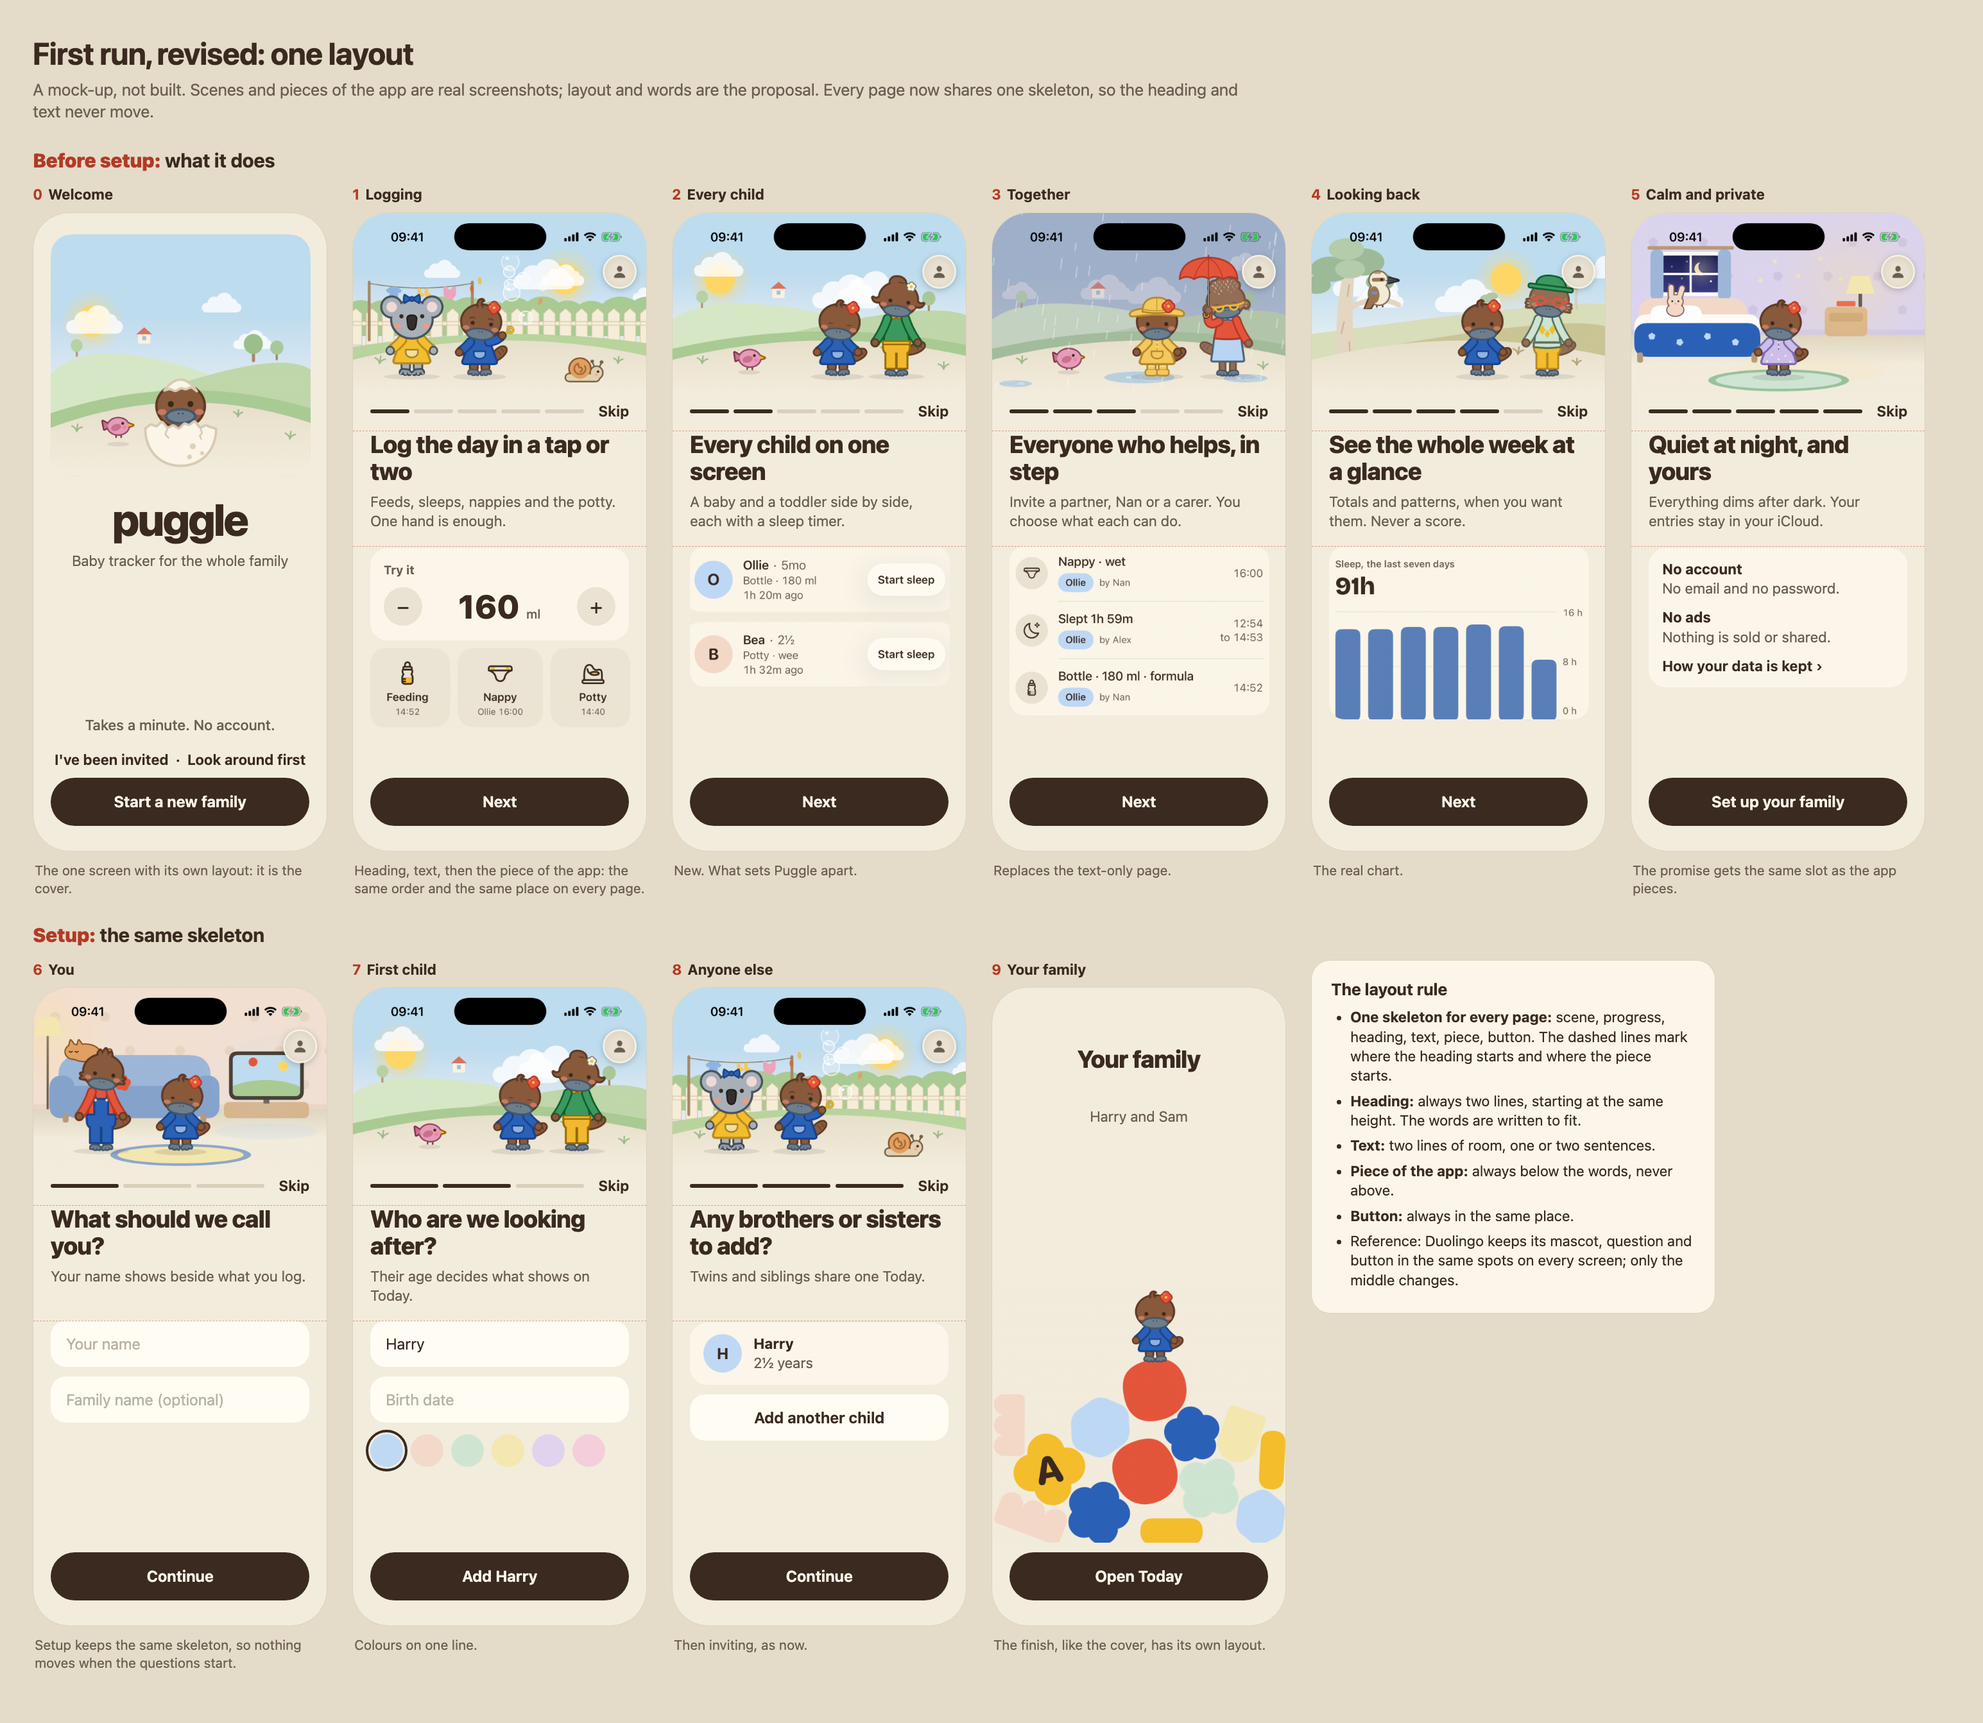
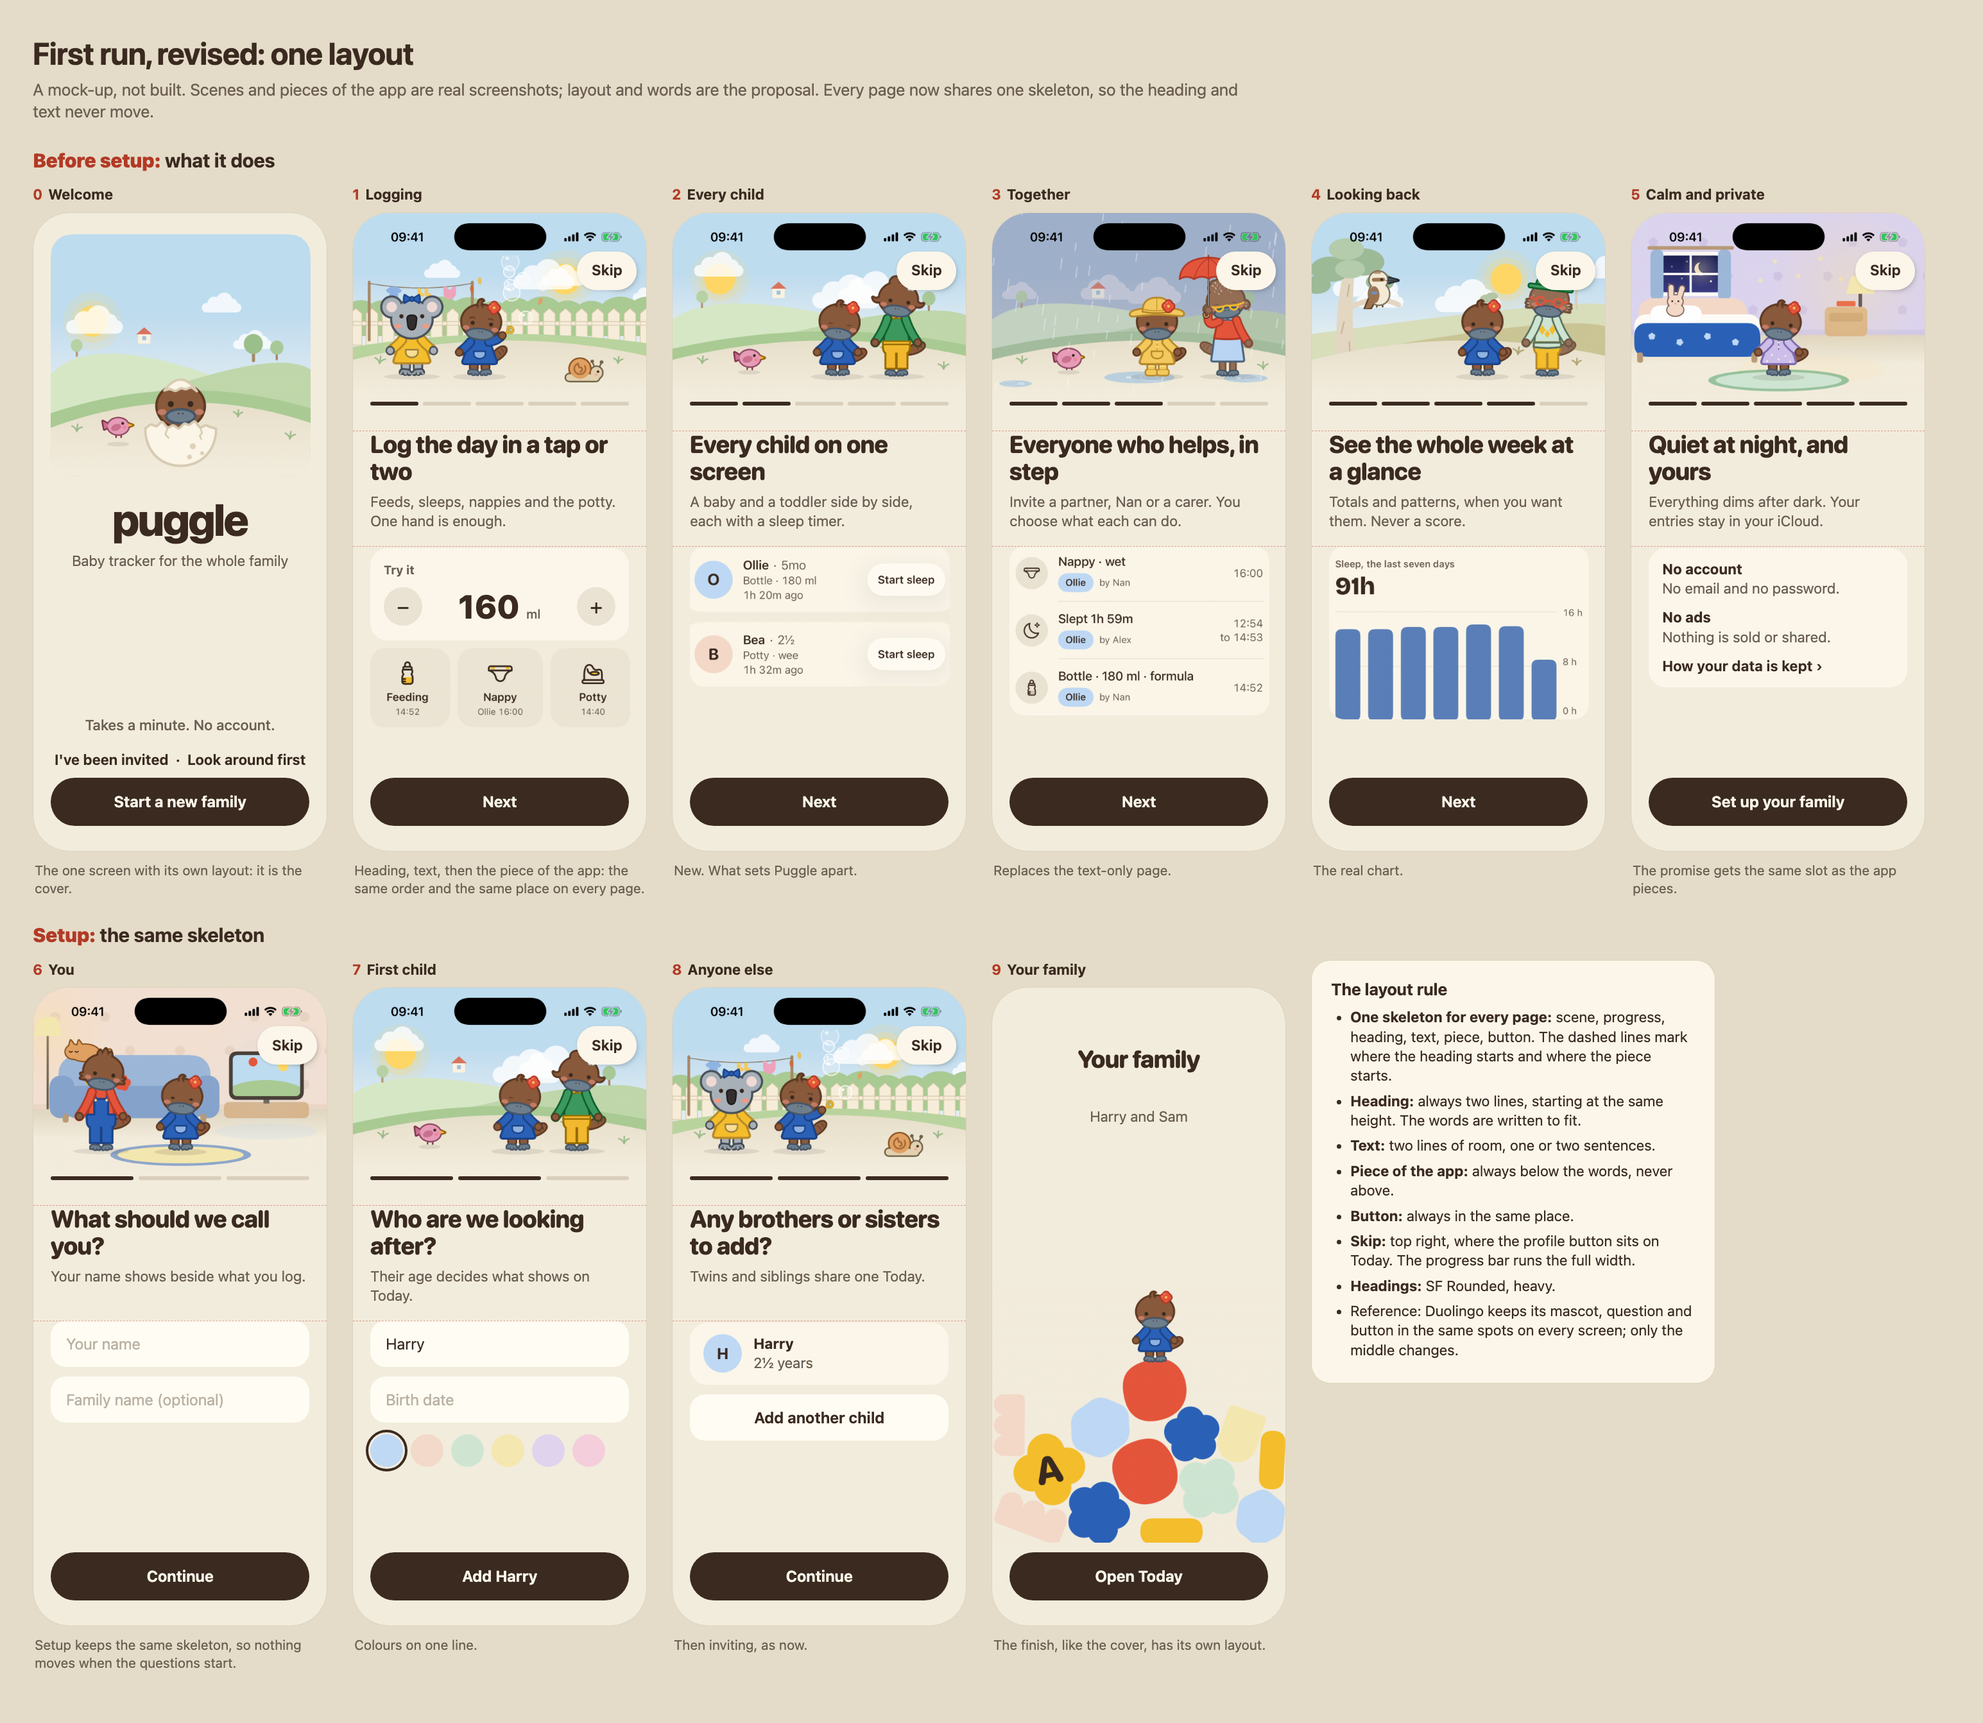
First run mock-up: Skip top right, full-width progress, SF Rounded headings

diff --git a/docs/previews/onboarding/revised.html b/docs/previews/onboarding/revised.html
@@ -1,5 +1,6 @@
 <!DOCTYPE html><html lang="en"><head><meta charset="utf-8"><title>First run, revised</title>
 <style>
+@font-face{font-family:'SF Rounded';src:url('file:///System/Library/Fonts/SFNSRounded.ttf');font-weight:100 900}
 :root{--ink:#3A2A20;--paper:#FBF6E9;--sand:#F2ECDD;--field:#EAE2D2;--muted:#6B5E52;--line:#DDD2BC;--red:#B23A26}
 *{box-sizing:border-box}
 body{margin:0;background:#E4DCC8;color:var(--ink);font:15px/1.35 -apple-system,BlinkMacSystemFont,"SF Pro Text",system-ui,sans-serif;padding:34px 34px 40px;width:2060px}
@@ -16,10 +17,11 @@ h2 b{color:var(--red)}
 .scene{display:block;width:306px;height:188px;object-fit:cover;object-position:top}
 .strip{display:block;width:306px;height:138px;object-fit:cover;object-position:50% 78%}
 .body{padding:14px 18px 0}
-.big{font-size:25px;line-height:1.12;font-weight:800;letter-spacing:-.02em;margin:0;height:58px;display:flex;align-items:flex-start}
+.big{font-family:'SF Rounded',ui-rounded,system-ui;font-size:25px;line-height:1.12;font-weight:800;letter-spacing:-.01em;margin:0;height:58px;display:flex;align-items:flex-start}
 .sub{color:var(--muted);font-size:15px;margin:6px 0 0;height:42px}
 .slot{position:absolute;left:18px;right:18px;top:346px;height:232px}
 .text{position:absolute;left:18px;right:18px;top:226px}
+.skip{position:absolute;top:40px;right:10px;height:40px;padding:0 15px;border-radius:20px;background:var(--paper);display:grid;place-items:center;font-weight:650;font-size:15px;box-shadow:0 1px 3px rgba(58,42,32,.12)}
 .guide{position:absolute;left:0;right:0;border-top:1px dashed #C9583F;opacity:.55}
 .piece{display:block;width:270px;border-radius:16px;margin:0 auto}
 .crop{width:270px;margin:0 auto;overflow:hidden;border-radius:16px}
@@ -54,36 +56,36 @@ h2 b{color:var(--red)}
   <div class="under" style="bottom:120px;color:var(--muted);font-weight:500">Takes a minute. No account.</div>
   <div class="under">I've been invited &nbsp;·&nbsp; Look around first</div><div class="cta">Start a new family</div></div>
   <p class="note">The one screen with its own layout: it is the cover.</p></div><div class="col"><p class="cap"><span>1</span>Logging</p><div class="phone">
-  <img class="scene" src="img2/scene-yard.png"><div class="bar"><i class="on"></i><i class=""></i><i class=""></i><i class=""></i><i class=""></i><em>Skip</em></div>
+  <img class="scene" src="img2/scene-yard.png"><div class="bar"><i class="on"></i><i class=""></i><i class=""></i><i class=""></i><i class=""></i></div><div class="skip">Skip</div>
   <div class="text"><div class="big">Log the day in a tap or two</div><p class="sub">Feeds, sleeps, nappies and the potty. One hand is enough.</p></div>
   <div class="slot"><div class="try"><small>Try it</small><div class="amt"><span class="dot">−</span><b>160 <small>ml</small></b><span class="dot">+</span></div></div><div class="crop" style="margin-top:8px"><img src="img2/tiles.png"></div></div><div class="guide" style="top:226px"></div><div class="guide" style="top:346px"></div>
   <div class="cta">Next</div></div><p class="note">Heading, text, then the piece of the app: the same order and the same place on every page.</p></div><div class="col"><p class="cap"><span>2</span>Every child</p><div class="phone">
-  <img class="scene" src="img2/scene-hills.png"><div class="bar"><i class="on"></i><i class="on"></i><i class=""></i><i class=""></i><i class=""></i><em>Skip</em></div>
+  <img class="scene" src="img2/scene-hills.png"><div class="bar"><i class="on"></i><i class="on"></i><i class=""></i><i class=""></i><i class=""></i></div><div class="skip">Skip</div>
   <div class="text"><div class="big">Every child on one screen</div><p class="sub">A baby and a toddler side by side, each with a sleep timer.</p></div>
   <div class="slot"><div class="crop"><img src="img2/cards.png"></div></div><div class="guide" style="top:226px"></div><div class="guide" style="top:346px"></div>
   <div class="cta">Next</div></div><p class="note">New. What sets Puggle apart.</p></div><div class="col"><p class="cap"><span>3</span>Together</p><div class="phone">
-  <img class="scene" src="img2/scene-rain.png"><div class="bar"><i class="on"></i><i class="on"></i><i class="on"></i><i class=""></i><i class=""></i><em>Skip</em></div>
+  <img class="scene" src="img2/scene-rain.png"><div class="bar"><i class="on"></i><i class="on"></i><i class="on"></i><i class=""></i><i class=""></i></div><div class="skip">Skip</div>
   <div class="text"><div class="big">Everyone who helps, in step</div><p class="sub">Invite a partner, Nan or a carer. You choose what each can do.</p></div>
   <div class="slot"><div class="crop" style="height:176px"><img src="img2/history.png"></div></div><div class="guide" style="top:226px"></div><div class="guide" style="top:346px"></div>
   <div class="cta">Next</div></div><p class="note">Replaces the text-only page.</p></div><div class="col"><p class="cap"><span>4</span>Looking back</p><div class="phone">
-  <img class="scene" src="img2/scene-bush.png"><div class="bar"><i class="on"></i><i class="on"></i><i class="on"></i><i class="on"></i><i class=""></i><em>Skip</em></div>
+  <img class="scene" src="img2/scene-bush.png"><div class="bar"><i class="on"></i><i class="on"></i><i class="on"></i><i class="on"></i><i class=""></i></div><div class="skip">Skip</div>
   <div class="text"><div class="big">See the whole week at a glance</div><p class="sub">Totals and patterns, when you want them. Never a score.</p></div>
   <div class="slot"><div class="crop" style="height:180px"><img src="img2/chart.png"></div></div><div class="guide" style="top:226px"></div><div class="guide" style="top:346px"></div>
   <div class="cta">Next</div></div><p class="note">The real chart.</p></div><div class="col"><p class="cap"><span>5</span>Calm and private</p><div class="phone">
-  <img class="scene" src="img2/scene-night.png"><div class="bar"><i class="on"></i><i class="on"></i><i class="on"></i><i class="on"></i><i class="on"></i><em>Skip</em></div>
+  <img class="scene" src="img2/scene-night.png"><div class="bar"><i class="on"></i><i class="on"></i><i class="on"></i><i class="on"></i><i class="on"></i></div><div class="skip">Skip</div>
   <div class="text"><div class="big">Quiet at night, and yours</div><p class="sub">Everything dims after dark. Your entries stay in your iCloud.</p></div>
   <div class="slot"><div class="try" style="display:grid;gap:10px"><div><b>No account</b><br><span style="color:var(--muted)">No email and no password.</span></div><div><b>No ads</b><br><span style="color:var(--muted)">Nothing is sold or shared.</span></div><div style="font-weight:650">How your data is kept ›</div></div></div><div class="guide" style="top:226px"></div><div class="guide" style="top:346px"></div>
   <div class="cta">Set up your family</div></div><p class="note">The promise gets the same slot as the app pieces.</p></div></div>
 <h2><b>Setup:</b> the same skeleton</h2><div class="row"><div class="col"><p class="cap"><span>6</span>You</p><div class="phone">
-  <img class="scene" src="img2/scene-room.png"><div class="bar"><i class="on"></i><i class=""></i><i class=""></i><em>Skip</em></div>
+  <img class="scene" src="img2/scene-room.png"><div class="bar"><i class="on"></i><i class=""></i><i class=""></i></div><div class="skip">Skip</div>
   <div class="text"><div class="big">What should we call you?</div><p class="sub">Your name shows beside what you log.</p></div>
   <div class="slot"><div class="field" style="margin-top:0">Your name</div><div class="field">Family name (optional)</div></div><div class="guide" style="top:226px"></div><div class="guide" style="top:346px"></div>
   <div class="cta">Continue</div></div><p class="note">Setup keeps the same skeleton, so nothing moves when the questions start.</p></div><div class="col"><p class="cap"><span>7</span>First child</p><div class="phone">
-  <img class="scene" src="img2/scene-hills.png"><div class="bar"><i class="on"></i><i class="on"></i><i class=""></i><em>Skip</em></div>
+  <img class="scene" src="img2/scene-hills.png"><div class="bar"><i class="on"></i><i class="on"></i><i class=""></i></div><div class="skip">Skip</div>
   <div class="text"><div class="big">Who are we looking after?</div><p class="sub">Their age decides what shows on Today.</p></div>
   <div class="slot"><div class="field set" style="margin-top:0">Harry</div><div class="field">Birth date</div><div class="chips"><u style="background:#BFD9F5;outline:3px solid var(--ink);outline-offset:2px"></u><u style="background:#F3D9C9"></u><u style="background:#CFE5D2"></u><u style="background:#F4E7B0"></u><u style="background:#E0D3EE"></u><u style="background:#F5CEDB"></u></div></div><div class="guide" style="top:226px"></div><div class="guide" style="top:346px"></div>
   <div class="cta">Add Harry</div></div><p class="note">Colours on one line.</p></div><div class="col"><p class="cap"><span>8</span>Anyone else</p><div class="phone">
-  <img class="scene" src="img2/scene-yard.png"><div class="bar"><i class="on"></i><i class="on"></i><i class="on"></i><em>Skip</em></div>
+  <img class="scene" src="img2/scene-yard.png"><div class="bar"><i class="on"></i><i class="on"></i><i class="on"></i></div><div class="skip">Skip</div>
   <div class="text"><div class="big">Any brothers or sisters to add?</div><p class="sub">Twins and siblings share one Today.</p></div>
   <div class="slot"><div class="try" style="display:flex;align-items:center;gap:12px"><span class="dot" style="background:#BFD9F5;font-size:16px;font-weight:700">H</span><div><b>Harry</b><br><span style="color:var(--muted)">2½ years</span></div></div><div class="field" style="color:var(--ink);font-weight:650;justify-content:center">Add another child</div></div><div class="guide" style="top:226px"></div><div class="guide" style="top:346px"></div>
   <div class="cta">Continue</div></div><p class="note">Then inviting, as now.</p></div><div class="col"><p class="cap"><span>9</span>Your family</p><div class="phone">
@@ -95,4 +97,6 @@ h2 b{color:var(--red)}
   <li><b>Text:</b> two lines of room, one or two sentences.</li>
   <li><b>Piece of the app:</b> always below the words, never above.</li>
   <li><b>Button:</b> always in the same place.</li>
+  <li><b>Skip:</b> top right, where the profile button sits on Today. The progress bar runs the full width.</li>
+  <li><b>Headings:</b> SF Rounded, heavy.</li>
   <li>Reference: Duolingo keeps its mascot, question and button in the same spots on every screen; only the middle changes.</li></ul></div></div></body></html>

diff --git a/docs/baby-tracker-spec.md b/docs/baby-tracker-spec.md
@@ -978,4 +978,4 @@ The options that are only on sheets live in debug code. Before a builder, each n
 
 **First-run demo: no banner (Tom, 2026-11-14).** The yellow "Demo. Nothing here is kept." banner is removed from the first-run demo while the flow is being refined; Tom found it distracting. A small faint cross in the bottom-left corner, below the main button, closes the demo. The current flow as built is on `docs/previews/onboarding/current-flow-1.png` and `current-flow-2.png`.
 
-**First run, revised (2026-11-14, mock-up, open).** Tom asked to revisit the flow and to show more of the features, before setup. `docs/previews/onboarding/revised.html` and `revised.png`, made from real screenshots of the build. Proposal: welcome (plus "Takes a minute. No account." and the invite route always visible); five feature pages before any question, each with a different scene and companion and a real piece of the app (logging, every child on one screen, everyone who helps, the week at a glance, quiet at night and private); then setup as now with a strip of scene over each question and short questions as headings; the heap as the finish. One progress bar for the pages and one for setup; Skip on every page. Left for later tips on Today: Siri and widgets, medicine reminders, Play. Nothing built. Tom then said the headings and text were jumping all over the place between pages. Reworked on one skeleton for every page, feature and setup alike: scene, progress, heading (always two lines, from the same height), text (two lines of room), the piece of the app or the fields (always below the words), button. Only the welcome and the heap have their own layout. Reference looked at: Duolingo's first run (in a UXCam round-up), which keeps mascot, question and button in the same spots on every screen.
+**First run, revised (2026-11-14, mock-up, open).** Tom asked to revisit the flow and to show more of the features, before setup. `docs/previews/onboarding/revised.html` and `revised.png`, made from real screenshots of the build. Proposal: welcome (plus "Takes a minute. No account." and the invite route always visible); five feature pages before any question, each with a different scene and companion and a real piece of the app (logging, every child on one screen, everyone who helps, the week at a glance, quiet at night and private); then setup as now with a strip of scene over each question and short questions as headings; the heap as the finish. One progress bar for the pages and one for setup; Skip on every page. Left for later tips on Today: Siri and widgets, medicine reminders, Play. Nothing built. Tom then said the headings and text were jumping all over the place between pages. Reworked on one skeleton for every page, feature and setup alike: scene, progress, heading (always two lines, from the same height), text (two lines of room), the piece of the app or the fields (always below the words), button. Only the welcome and the heap have their own layout. Reference looked at: Duolingo's first run (in a UXCam round-up), which keeps mascot, question and button in the same spots on every screen. Tom then: no profile button in first run, so Skip goes top right in its place and the progress bar runs the full width; headings in SF Rounded (heavy). The mock-up shows both. To settle when built: whether SF Rounded is for first-run headings only or replaces the display font everywhere.
